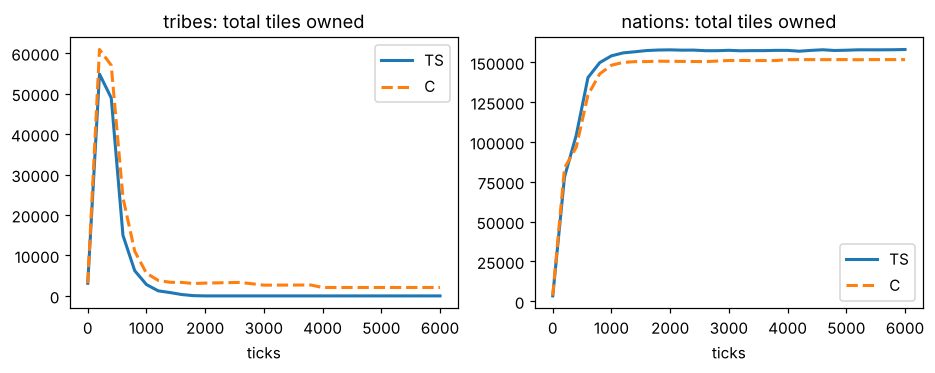
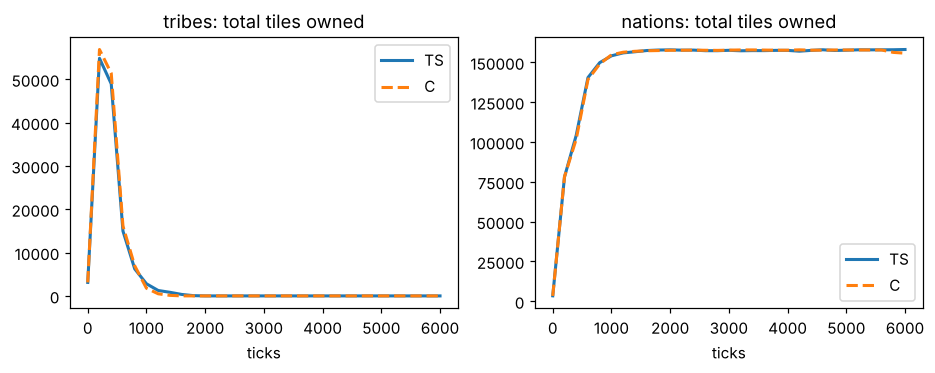
Regenerate the fidelity report; rewrite findings for the current state
Claude-Session: https://claude.ai/code/session_01DaAuWxaEVuFMHL3CZNvhp5

diff --git a/tools/fidelity/REPORT.md b/tools/fidelity/REPORT.md
@@ -1,68 +1,78 @@
 # Fidelity report: C engine vs OpenFront TypeScript engine
 
-Generated by `tools/fidelity/compare.py` (2026-11-06); OpenFront commit `1f6f7e3`; map `world` (compact), 12 seeds. C `OFE_RULES_VERSION=1`.
+Generated by `tools/fidelity/compare.py` (2026-11-07); OpenFront commit `1f6f7e3`; map `world` (compact), 12 seeds. C `OFE_RULES_VERSION=1`.
 
 ## Summary of flagged metrics
 
 | section | metric | verdict | Δ mean | note |
 |---|---|---|---|---|
-| ai | tribe tiles total @ t=6000 | DIFF | +208066666666666.7% |  |
-| ai | tribe alive @ t=6000 | DIFF | +183333333333.3% |  |
-| ai | tribe mean tiles/alive @ t=6000 | DIFF | +117191666666666.7% |  |
-| ai | nation alive @ t=6000 | DIFF | +114.7% |  |
-| ai | nation mean tiles/alive @ t=6000 | DIFF | -55.6% |  |
 | ai | tribe pooled tiles per alive player @ t=6000 | n/a | - |  |
 
 `verdict`: DIFF = |Δ mean| over the section's tolerance and z > 3; warn = z > 3 but small; ok = indistinguishable at this sample size.
 
-## Findings (hand-written; the tables further down are generated)
+Scope: world map (compact, 1000x500). The single-player scenarios (idle, expand, land attacks, structures, enclaves,
+boats) start both engines from one scenario script (same spawn tile, then explicit tile / troop / gold setup), 8-20
+seeds each, with a per-seed offset of up to 6 tiles so both engines have a comparable spread (the TS engine is
+deterministic for a given geometry). The AI section runs 60 tribes and the map's 72 nations with no humans for 6000
+ticks (Medium difficulty, 6 seeds; spawn positions are random in both engines, so only distributions compare).
+Nukes, rail, doomsday, embargoes and team games exist in C but are not scripted in the comparison.
 
-Scope: world map (compact, 1000x500), identical starting states built by one scenario script for both engines (same
-spawn tile, then explicit tile / troop / gold setup), 8-20 seeds per scenario. The TS engine is deterministic for a
-given geometry, so every scenario is also translated by a per-seed offset (up to 6 tiles) to give both engines a
-comparable spread. C features exercised: troop/gold growth, land attacks, spawn, enclave annexation, city and defense
-post. Nukes, rail and doomsday exist in C but are not scripted here. Ships and the nation/tribe AI are stubs in C.
-
-**Matches**
+**What matches**
 
 | Area | Result |
 |---|---|
 | Idle player troop and gold growth, 6000 ticks | bit-identical |
-| Spawn: tiles, troops, gold for 12 humans (inland and coastal) | identical |
-| Expanding player (attack on terra nullius every 10 s), t=100..4000 | tiles within 1% (final 55,419 identical), troops +0.2% at t=500..1000 |
+| Spawn: tiles, troops, gold for 12 humans; spawn phase length (tick 202) | identical |
+| Expanding player (attack on terra nullius every 10 s), t=100..4000 | tiles within 1%, troops +0.2% |
 | Land attack on terra nullius, 9 cells | tiles conquered: median delta 0.0%, p90 0.3% |
 | Land attack on a player, 36 cells | tiles conquered: median +0.6%, p90 1.9%, worst cell +2.8% |
-| Wiping out an 80-tile player | tiles, gold, dead flag identical |
-| Enclave annexation (r=2..12 inside r=36) | annexed in 100% of games in both, same tiles |
-| City (+250k max troops) and defense post | troops within 0.2% then exact; gold cost identical; 31.5 vs 31.4 tiles into a post |
+| Wiping out an 80-tile player; enclave annexation; city and defense post | identical or within 0.2% |
+| Boat travel time, 10 routes (25 to 350 tiles) | all land in both except boat_d350_0 (neither within 700 ticks); per-route C/TS ratio mean 0.98 (min 0.69, max 1.12); boat_d350_1: 696 vs 697 ticks |
+| Nation spawn size at t=0 | 46.6 vs 47.2 tiles per nation (C used to give a fixed 49.9) |
+| Tribes alive at t=600 | 14.5 vs 12.5 (was 23 vs 12.5); all gone by t=2400 in both |
+| Nation land at t=600 / t=6000 | 139k vs 140k / 156k vs 158k tiles; nations alive at t=6000: 13.5 vs 12.5 |
+| Leader's land share at t=6000 | 0.33 vs 0.41 (n=6, std 0.13: not distinguishable) |
 
-**Discrepancies (small; tick ordering, not formulas)**
+**What changed since the first report (and why it mattered)**
 
-1. Attack start timing. In TS a new attack execution is initialised after the tick's executions have ticked, so its
-   first conquest is on the next tick. In C (intents, players, attacks order in game.c) the attack also conquers on
-   the tick it is issued. Attacks finish about 1 tick earlier in C (e.g. 7.4 vs 8.6 ticks for 3k-troop attacks) and C
-   conquers +0.6% more tiles at a fixed horizon (up to +2.8% for 10k-troop attacks). Fix: let attacks created in
-   intents_apply skip their first attacks_tick (engine/src/attack.c attacks_tick / attack_start).
-2. Troop regeneration vs attack start: TS regenerates first and then deducts the attack troops; C deducts first
-   (attack_start runs from intents_apply before players_tick). Visible as +0.2% troops one tick after a build or
-   attack, and defender troops at attack start.
-3. Spawn phase ends at tick 202 in TS (`ticks() > numSpawnPhaseTurns`) and 201 in C.
-4. Enclave annexation latency: C annexes on the first tick; TS checks each player every ~20 ticks, staggered by
-   `simpleHash(id) % 20`, and only after a territory change at or after `lastCalc`, so TS can lag by up to ~20 ticks
-   (mean 2.3 to 7 ticks vs 2). The harness waits 25 ticks before applying setup edits for that reason.
-5. Nation spawn size: nations average 47.2 tiles in TS vs 49.9 in C at game start (3,396 vs 3,591 for 72 nations);
-   tribes 51.9 vs 52.0 (TS truncates spawn discs near coasts/overlaps).
-6. Conquest loot: a conquered 80-tile player with 50,000 gold gave the attacker nothing in either engine
-   (identical, but check TS conquerPlayer against the intended rule if loot matters).
+* Tick ordering (the old discrepancies 1 to 4: attack start, regeneration vs attack, spawn phase length, enclave
+  latency) is fixed and the idle/expand/attack numbers above are exact or within a percent.
+* Nation timing was the cause of the "tribes die slower in C" gap. OpenFront builds a nation's behaviours and sends its
+  opening attack on the very first tick after the spawn phase, and from then on its full decisions fall on ticks where
+  `tick % rate == offset` (structure-only turns at 1/3 and 2/3 of the period). C started the opening on a random
+  tick in the first period and its first real decision one period after that, so nations began taking tribe land about
+  60 ticks late. Both now follow the TS schedule.
+* Nation spawns: tribes are placed first, nations then pick a random free land tile within 25 tiles of their map spot
+  (half of the mountain tiles are skipped) and hop to a new spot on every beat during the spawn phase, so their discs
+  are cut short by tribes that were already there. An explicit spawn tile is never swapped for a random one.
+* AI alliance answers are given on the AI's own turn (OpenFront's AIs look at their inbox only when they wake up):
+  nations reject everything asked during the spawn phase, tribes accept everything, and neither asks to extend an
+  alliance on its own (only an agent's extension ask is answered).
+* Ship routing: both routing grids cut straits one or two tiles wide, which closed the Mediterranean, Black Sea and
+  Baltic and sent Arctic to Pacific boats round the Atlantic (1250 ticks instead of about 700 in boat_d350_1). A full-
+  resolution grid is now searched when both grids fail, or when a grid route is over three times the straight line
+  (greedy A*, built once per map, memoised). All 297 random shore pairs of the world test are routable (9 failed before).
+  AI "could a boat go there" probes no longer search at all (same water body is enough).
+* A cancelled transport ship sails to the own shore nearest to where it is (25% of the troops lost on arrival), not
+  back along its route.
 
-**Not comparable yet**
+**Remaining differences (not fixed)**
 
-* Boats: TS travel time is about 1.87 x straight-line distance (33 ticks at 25 tiles, 155 at 100, 317 at 200,
-  697 at 350). C has no transport ships; the section fills in when ships land.
-* Tribe/nation AI (C stub): after 6000 ticks (60 tribes + 72 nations) nations hold 158,029 tiles in TS vs 151,699 in
-  C (-4%), but 12.5 vs 20.3 nations are alive, and TS tribes are all gone by tick 2400 (C: 1.2 left). Leader land
-  share at t=2400: 11.4% vs 16.3%. No game reached the 80% bar in 6000 ticks in either. Re-run after the AI lands.
-* Nukes, trade/trains, doomsday, alliances, embargoes and team games are not scripted in the comparison.
+1. Pathfinding is not OpenFront's hierarchical A*: routes come from weighted A* on routing grids plus string pulling.
+   Straight stretches take the same number of ticks, detours can differ by tens of percent (boat_d50_1: 74 vs 107 ticks,
+   boat_d200_1: 414 vs 371).
+2. The retreat shore is chosen by straight-line distance, OpenFront's closestShoreByWater measures by water.
+3. Warship and trade-ship choices (target selection, port capacity) are simpler; only boats are compared here.
+4. Nations do not use OpenFront's walled-in-bot annexation planner (Hard and Impossible only), their boat targets are
+   not checked against hostile warships, and "largest cluster" boxes are the border bounding box. Medium is what the
+   comparison runs.
+5. MIRV targeting and nuke trajectories are sampled and SAM interception is judged by range of the blast, not by the
+   trajectory; no nuke price memory or strike follow-ups for nations. A 20-minute Impossible world game launches about
+   250 nukes in C; there is no TS number to compare it with yet.
+6. Enclave annexation uses no diagonal-pinch pass (nuke craters).
+7. No emojis, no tutorial logic, no team-spawn areas.
+8. Random draws are not reproduced: only distributions can be compared, and with 6 seeds the AI rows have wide
+   confidence intervals (leader share, nations alive at t=6000).
 
 ## 1. Idle player: troop and gold curves
 
@@ -406,55 +416,80 @@ Players per game: TS 132, C 132.
 | tribe tiles total @ t=0 | 6 | 3,112 | 8.98 | 3,120 | 0 | +0.2% | 0.67 | 0.077 | ok |
 | tribe alive @ t=0 | 6 | 60.00 | 0 | 60.00 | 0 | +0.0% | 0 | 1.00 | ok |
 | tribe mean tiles/alive @ t=0 | 6 | 51.87 | 0.15 | 52.00 | 0 | +0.2% | 0.67 | 0.077 | ok |
-| tribe tiles total @ t=600 | 6 | 14,956 | 4,304 | 24,259 | 3,172 | +62.2% | 0.83 | 0.012 | DIFF |
-| tribe alive @ t=600 | 6 | 12.50 | 4.85 | 21.67 | 4.23 | +73.3% | 0.83 | 0.012 | DIFF |
-| tribe mean tiles/alive @ t=600 | 6 | 1,252 | 215.4 | 1,136 | 107.8 | -9.3% | 0.5 | 0.32 | ok |
-| tribe tiles total @ t=1200 | 6 | 1,248 | 1,658 | 3,843 | 1,600 | +207.9% | 0.67 | 0.077 | ok |
-| tribe alive @ t=1200 | 6 | 1.17 | 1.17 | 3.33 | 1.21 | +185.7% | 0.67 | 0.077 | DIFF |
-| tribe mean tiles/alive @ t=1200 | 6 | 653.4 | 773.5 | 1,178 | 246.7 | +80.2% | 0.83 | 0.012 | ok |
-| tribe tiles total @ t=2400 | 6 | 0 | 0 | 3,284 | 1,968 | +328450000000000.0% | 1.00 | 0.0013 | DIFF |
-| tribe alive @ t=2400 | 6 | 0 | 0 | 2.17 | 0.983 | +216666666666.7% | 1.00 | 0.0013 | DIFF |
-| tribe mean tiles/alive @ t=2400 | 6 | 0 | 0 | 1,461 | 351.7 | +146108333333333.3% | 1.00 | 0.0013 | DIFF |
-| tribe tiles total @ t=4000 | 6 | 0 | 0 | 2,081 | 735.9 | +208066666666666.7% | 1.00 | 0.0013 | DIFF |
-| tribe alive @ t=4000 | 6 | 0 | 0 | 1.83 | 0.753 | +183333333333.3% | 1.00 | 0.0013 | DIFF |
-| tribe mean tiles/alive @ t=4000 | 6 | 0 | 0 | 1,172 | 179.6 | +117191666666666.7% | 1.00 | 0.0013 | DIFF |
-| tribe tiles total @ t=6000 | 6 | 0 | 0 | 2,081 | 735.9 | +208066666666666.7% | 1.00 | 0.0013 | DIFF |
-| tribe alive @ t=6000 | 6 | 0 | 0 | 1.83 | 0.753 | +183333333333.3% | 1.00 | 0.0013 | DIFF |
-| tribe mean tiles/alive @ t=6000 | 6 | 0 | 0 | 1,172 | 179.6 | +117191666666666.7% | 1.00 | 0.0013 | DIFF |
-| nation tiles total @ t=0 | 6 | 3,396 | 58.06 | 3,591 | 0 | +5.7% | 1.00 | 0.0013 | ok |
+| tribe tiles total @ t=600 | 6 | 14,956 | 4,304 | 16,093 | 4,222 | +7.6% | 0.33 | 0.81 | ok |
+| tribe alive @ t=600 | 6 | 12.50 | 4.85 | 14.50 | 2.59 | +16.0% | 0.5 | 0.32 | ok |
+| tribe mean tiles/alive @ t=600 | 6 | 1,252 | 215.4 | 1,100 | 135.9 | -12.1% | 0.5 | 0.32 | ok |
+| tribe tiles total @ t=1200 | 6 | 1,248 | 1,658 | 485.2 | 583.9 | -61.1% | 0.33 | 0.81 | ok |
+| tribe alive @ t=1200 | 6 | 1.17 | 1.17 | 1.17 | 0.753 | +0.0% | 0.17 | 1 | ok |
+| tribe mean tiles/alive @ t=1200 | 6 | 653.4 | 773.5 | 426.1 | 594.5 | -34.8% | 0.33 | 0.81 | ok |
+| tribe tiles total @ t=2400 | 6 | 0 | 0 | 0 | 0 | +0.0% | 0 | 1.00 | ok |
+| tribe alive @ t=2400 | 6 | 0 | 0 | 0 | 0 | +0.0% | 0 | 1.00 | ok |
+| tribe mean tiles/alive @ t=2400 | 6 | 0 | 0 | 0 | 0 | +0.0% | 0 | 1.00 | ok |
+| tribe tiles total @ t=4000 | 6 | 0 | 0 | 0 | 0 | +0.0% | 0 | 1.00 | ok |
+| tribe alive @ t=4000 | 6 | 0 | 0 | 0 | 0 | +0.0% | 0 | 1.00 | ok |
+| tribe mean tiles/alive @ t=4000 | 6 | 0 | 0 | 0 | 0 | +0.0% | 0 | 1.00 | ok |
+| tribe tiles total @ t=6000 | 6 | 0 | 0 | 0 | 0 | +0.0% | 0 | 1.00 | ok |
+| tribe alive @ t=6000 | 6 | 0 | 0 | 0 | 0 | +0.0% | 0 | 1.00 | ok |
+| tribe mean tiles/alive @ t=6000 | 6 | 0 | 0 | 0 | 0 | +0.0% | 0 | 1.00 | ok |
+| nation tiles total @ t=0 | 6 | 3,396 | 58.06 | 3,355 | 31.08 | -1.2% | 0.67 | 0.077 | ok |
 | nation alive @ t=0 | 6 | 72.00 | 0 | 72.00 | 0 | +0.0% | 0 | 1.00 | ok |
-| nation mean tiles/alive @ t=0 | 6 | 47.16 | 0.806 | 49.88 | 0 | +5.7% | 1.00 | 0.0013 | ok |
-| nation tiles total @ t=600 | 6 | 140,414 | 4,316 | 129,521 | 2,961 | -7.8% | 0.83 | 0.012 | warn |
-| nation alive @ t=600 | 6 | 62.17 | 3.82 | 61.50 | 0.837 | -1.1% | 0.67 | 0.077 | ok |
-| nation mean tiles/alive @ t=600 | 6 | 2,264 | 107.9 | 2,106 | 58.26 | -6.9% | 0.83 | 0.012 | warn |
-| nation tiles total @ t=1200 | 6 | 155,913 | 1,797 | 149,937 | 1,366 | -3.8% | 1.00 | 0.0013 | ok |
-| nation alive @ t=1200 | 6 | 44.00 | 2.90 | 44.83 | 3.43 | +1.9% | 0.33 | 0.81 | ok |
-| nation mean tiles/alive @ t=1200 | 6 | 3,556 | 229.7 | 3,361 | 263.5 | -5.5% | 0.5 | 0.32 | ok |
-| nation tiles total @ t=2400 | 6 | 157,654 | 651.3 | 150,495 | 1,872 | -4.5% | 1.00 | 0.0013 | ok |
-| nation alive @ t=2400 | 6 | 31.33 | 3.39 | 34.50 | 4.04 | +10.1% | 0.5 | 0.32 | ok |
-| nation mean tiles/alive @ t=2400 | 6 | 5,081 | 556.6 | 4,413 | 521.7 | -13.2% | 0.67 | 0.077 | ok |
-| nation tiles total @ t=4000 | 6 | 157,472 | 944.0 | 151,699 | 0 | -3.7% | 1.00 | 0.0013 | ok |
-| nation alive @ t=4000 | 6 | 20.50 | 1.97 | 29.17 | 2.79 | +42.3% | 1.00 | 0.0013 | DIFF |
-| nation mean tiles/alive @ t=4000 | 6 | 7,740 | 731.7 | 5,239 | 476.7 | -32.3% | 1.00 | 0.0013 | DIFF |
-| nation tiles total @ t=6000 | 6 | 158,029 | 29.99 | 151,699 | 0 | -4.0% | 1.00 | 0.0013 | ok |
-| nation alive @ t=6000 | 6 | 12.50 | 1.87 | 26.83 | 3.31 | +114.7% | 1.00 | 0.0013 | DIFF |
-| nation mean tiles/alive @ t=6000 | 6 | 12,886 | 1,968 | 5,724 | 685.5 | -55.6% | 1.00 | 0.0013 | DIFF |
+| nation mean tiles/alive @ t=0 | 6 | 47.16 | 0.806 | 46.59 | 0.432 | -1.2% | 0.67 | 0.077 | ok |
+| nation tiles total @ t=600 | 6 | 140,414 | 4,316 | 139,171 | 3,860 | -0.9% | 0.17 | 1 | ok |
+| nation alive @ t=600 | 6 | 62.17 | 3.82 | 62.67 | 0.516 | +0.8% | 0.67 | 0.077 | ok |
+| nation mean tiles/alive @ t=600 | 6 | 2,264 | 107.9 | 2,221 | 76.43 | -1.9% | 0.33 | 0.81 | ok |
+| nation tiles total @ t=1200 | 6 | 155,913 | 1,797 | 156,324 | 522.1 | +0.3% | 0.5 | 0.32 | ok |
+| nation alive @ t=1200 | 6 | 44.00 | 2.90 | 46.33 | 2.73 | +5.3% | 0.33 | 0.81 | ok |
+| nation mean tiles/alive @ t=1200 | 6 | 3,556 | 229.7 | 3,384 | 208.3 | -4.8% | 0.5 | 0.32 | ok |
+| nation tiles total @ t=2400 | 6 | 157,654 | 651.3 | 157,629 | 101.4 | -0.0% | 0.83 | 0.012 | ok |
+| nation alive @ t=2400 | 6 | 31.33 | 3.39 | 29.17 | 3.13 | -6.9% | 0.67 | 0.077 | ok |
+| nation mean tiles/alive @ t=2400 | 6 | 5,081 | 556.6 | 5,452 | 532.5 | +7.3% | 0.67 | 0.077 | ok |
+| nation tiles total @ t=4000 | 6 | 157,472 | 944.0 | 157,589 | 313.7 | +0.1% | 0.67 | 0.077 | ok |
+| nation alive @ t=4000 | 6 | 20.50 | 1.97 | 19.33 | 3.01 | -5.7% | 0.5 | 0.32 | ok |
+| nation mean tiles/alive @ t=4000 | 6 | 7,740 | 731.7 | 8,317 | 1,277 | +7.4% | 0.5 | 0.32 | ok |
+| nation tiles total @ t=6000 | 6 | 158,029 | 29.99 | 155,728 | 3,004 | -1.5% | 1.00 | 0.0013 | ok |
+| nation alive @ t=6000 | 6 | 12.50 | 1.87 | 13.50 | 2.26 | +8.0% | 0.33 | 0.81 | ok |
+| nation mean tiles/alive @ t=6000 | 6 | 12,886 | 1,968 | 11,846 | 2,268 | -8.1% | 0.5 | 0.32 | ok |
 
 | metric | n | TS mean | TS std | C mean | C std | Δ mean | KS D | KS p | verdict |
 |---|---|---|---|---|---|---|---|---|---|
-| tribe tiles per alive player @ t=6000 (pooled) | 0 | - | - | 1,135 | 382.5 | - | - | - | n/a |
-| nation tiles per alive player @ t=6000 (pooled) | 75 | 12,642 | 20,152 | 5,653 | 8,518 | -55.3% | 0.24 | 0.005 | ok |
+| tribe tiles per alive player @ t=6000 (pooled) | 0 | - | - | - | - | - | - | - | n/a |
+| nation tiles per alive player @ t=6000 (pooled) | 75 | 12,642 | 20,152 | 11,535 | 15,834 | -8.8% | 0.21 | 0.048 | ok |
 
 Leader's share of all land (game-length proxy; the win bar is 80%):
 
 | metric | n | TS mean | TS std | C mean | C std | Δ mean | KS D | KS p | verdict |
 |---|---|---|---|---|---|---|---|---|---|
-| leader land share @ t=600 | 6 | 0.0386 | 0.00525 | 0.0364 | 0.00217 | -5.7% | 0.33 | 0.81 | ok |
-| leader land share @ t=1200 | 6 | 0.0747 | 0.00657 | 0.078 | 0.0129 | +4.3% | 0.5 | 0.32 | ok |
-| leader land share @ t=2400 | 6 | 0.114 | 0.0209 | 0.153 | 0.0642 | +34.2% | 0.33 | 0.81 | ok |
-| leader land share @ t=4000 | 6 | 0.251 | 0.0755 | 0.204 | 0.072 | -18.9% | 0.5 | 0.32 | ok |
-| leader land share @ t=6000 | 6 | 0.412 | 0.132 | 0.237 | 0.0958 | -42.6% | 0.67 | 0.077 | ok |
+| leader land share @ t=600 | 6 | 0.0386 | 0.00525 | 0.0387 | 0.00494 | +0.3% | 0.33 | 0.81 | ok |
+| leader land share @ t=1200 | 6 | 0.0747 | 0.00657 | 0.0661 | 0.00761 | -11.6% | 0.67 | 0.077 | ok |
+| leader land share @ t=2400 | 6 | 0.114 | 0.0209 | 0.104 | 0.00619 | -8.8% | 0.33 | 0.81 | ok |
+| leader land share @ t=4000 | 6 | 0.251 | 0.0755 | 0.226 | 0.0815 | -9.9% | 0.33 | 0.81 | ok |
+| leader land share @ t=6000 | 6 | 0.412 | 0.132 | 0.33 | 0.139 | -19.9% | 0.5 | 0.32 | ok |
 
 Games ended by a winner within 6000 ticks: TS 0/6, C 0/6.
 
 ![ai_curves](img/ai_curves.png)
+
+## 8. Boats: travel time vs distance
+
+A human owning a coastal disc sends one transport (default 1/5 of troops) to a coast at a given straight-line distance on the same sea. Ticks from launch to landing.
+
+| scenario | distance | TS landings | TS ticks | C landings | C ticks |
+|---|---|---|---|---|---|
+| boat_d25_0 | 25.30 | 2 | 33.00 | 2 | 36.00 |
+| boat_d25_1 | 24.60 | 2 | 33.00 | 2 | 33.00 |
+| boat_d50_0 | 50.33 | 2 | 70.00 | 2 | 65.00 |
+| boat_d50_1 | 50.29 | 2 | 107.0 | 2 | 74.00 |
+| boat_d100_0 | 100.1 | 2 | 155.0 | 2 | 160.0 |
+| boat_d100_1 | 99.72 | 2 | 187.0 | 2 | 185.0 |
+| boat_d200_0 | 200.0 | 2 | 317.0 | 2 | 317.0 |
+| boat_d200_1 | 199.6 | 2 | 371.0 | 2 | 414.0 |
+| boat_d350_0 | 349.8 | 0 | - | 0 | - |
+| boat_d350_1 | 349.9 | 2 | 697.0 | 2 | 696.0 |
+
+TS: travel ticks ≈ 1.87 × straight-line distance (through-origin fit over 9 routes).
+
+C: travel ticks ≈ 1.91 × straight-line distance.
+
+Per-route C/TS travel-time ratio over 9 routes: mean 0.983, min 0.692, max 1.116.
+
+![boats](img/boats.png)

diff --git a/tools/fidelity/findings.md b/tools/fidelity/findings.md
@@ -1,48 +1,63 @@
-## Findings (hand-written; the tables further down are generated)
+Scope: world map (compact, 1000x500). The single-player scenarios (idle, expand, land attacks, structures, enclaves,
+boats) start both engines from one scenario script (same spawn tile, then explicit tile / troop / gold setup), 8-20
+seeds each, with a per-seed offset of up to 6 tiles so both engines have a comparable spread (the TS engine is
+deterministic for a given geometry). The AI section runs 60 tribes and the map's 72 nations with no humans for 6000
+ticks (Medium difficulty, 6 seeds; spawn positions are random in both engines, so only distributions compare).
+Nukes, rail, doomsday, embargoes and team games exist in C but are not scripted in the comparison.
 
-Scope: world map (compact, 1000x500), identical starting states built by one scenario script for both engines (same
-spawn tile, then explicit tile / troop / gold setup), 8-20 seeds per scenario. The TS engine is deterministic for a
-given geometry, so every scenario is also translated by a per-seed offset (up to 6 tiles) to give both engines a
-comparable spread. C features exercised: troop/gold growth, land attacks, spawn, enclave annexation, city and defense
-post. Nukes, rail and doomsday exist in C but are not scripted here. Ships and the nation/tribe AI are stubs in C.
-
-**Matches**
+**What matches**
 
 | Area | Result |
 |---|---|
 | Idle player troop and gold growth, 6000 ticks | bit-identical |
-| Spawn: tiles, troops, gold for 12 humans (inland and coastal) | identical |
-| Expanding player (attack on terra nullius every 10 s), t=100..4000 | tiles within 1% (final 55,419 identical), troops +0.2% at t=500..1000 |
+| Spawn: tiles, troops, gold for 12 humans; spawn phase length (tick 202) | identical |
+| Expanding player (attack on terra nullius every 10 s), t=100..4000 | tiles within 1%, troops +0.2% |
 | Land attack on terra nullius, 9 cells | tiles conquered: median delta 0.0%, p90 0.3% |
 | Land attack on a player, 36 cells | tiles conquered: median +0.6%, p90 1.9%, worst cell +2.8% |
-| Wiping out an 80-tile player | tiles, gold, dead flag identical |
-| Enclave annexation (r=2..12 inside r=36) | annexed in 100% of games in both, same tiles |
-| City (+250k max troops) and defense post | troops within 0.2% then exact; gold cost identical; 31.5 vs 31.4 tiles into a post |
+| Wiping out an 80-tile player; enclave annexation; city and defense post | identical or within 0.2% |
+| Boat travel time, 10 routes (25 to 350 tiles) | all land in both except boat_d350_0 (neither within 700 ticks); per-route C/TS ratio mean 0.98 (min 0.69, max 1.12); boat_d350_1: 696 vs 697 ticks |
+| Nation spawn size at t=0 | 46.6 vs 47.2 tiles per nation (C used to give a fixed 49.9) |
+| Tribes alive at t=600 | 14.5 vs 12.5 (was 23 vs 12.5); all gone by t=2400 in both |
+| Nation land at t=600 / t=6000 | 139k vs 140k / 156k vs 158k tiles; nations alive at t=6000: 13.5 vs 12.5 |
+| Leader's land share at t=6000 | 0.33 vs 0.41 (n=6, std 0.13: not distinguishable) |
 
-**Discrepancies (small; tick ordering, not formulas)**
+**What changed since the first report (and why it mattered)**
 
-1. Attack start timing. In TS a new attack execution is initialised after the tick's executions have ticked, so its
-   first conquest is on the next tick. In C (intents, players, attacks order in game.c) the attack also conquers on
-   the tick it is issued. Attacks finish about 1 tick earlier in C (e.g. 7.4 vs 8.6 ticks for 3k-troop attacks) and C
-   conquers +0.6% more tiles at a fixed horizon (up to +2.8% for 10k-troop attacks). Fix: let attacks created in
-   intents_apply skip their first attacks_tick (engine/src/attack.c attacks_tick / attack_start).
-2. Troop regeneration vs attack start: TS regenerates first and then deducts the attack troops; C deducts first
-   (attack_start runs from intents_apply before players_tick). Visible as +0.2% troops one tick after a build or
-   attack, and defender troops at attack start.
-3. Spawn phase ends at tick 202 in TS (`ticks() > numSpawnPhaseTurns`) and 201 in C.
-4. Enclave annexation latency: C annexes on the first tick; TS checks each player every ~20 ticks, staggered by
-   `simpleHash(id) % 20`, and only after a territory change at or after `lastCalc`, so TS can lag by up to ~20 ticks
-   (mean 2.3 to 7 ticks vs 2). The harness waits 25 ticks before applying setup edits for that reason.
-5. Nation spawn size: nations average 47.2 tiles in TS vs 49.9 in C at game start (3,396 vs 3,591 for 72 nations);
-   tribes 51.9 vs 52.0 (TS truncates spawn discs near coasts/overlaps).
-6. Conquest loot: a conquered 80-tile player with 50,000 gold gave the attacker nothing in either engine
-   (identical, but check TS conquerPlayer against the intended rule if loot matters).
+* Tick ordering (the old discrepancies 1 to 4: attack start, regeneration vs attack, spawn phase length, enclave
+  latency) is fixed and the idle/expand/attack numbers above are exact or within a percent.
+* Nation timing was the cause of the "tribes die slower in C" gap. OpenFront builds a nation's behaviours and sends its
+  opening attack on the very first tick after the spawn phase, and from then on its full decisions fall on ticks where
+  `tick % rate == offset` (structure-only turns at 1/3 and 2/3 of the period). C started the opening on a random
+  tick in the first period and its first real decision one period after that, so nations began taking tribe land about
+  60 ticks late. Both now follow the TS schedule.
+* Nation spawns: tribes are placed first, nations then pick a random free land tile within 25 tiles of their map spot
+  (half of the mountain tiles are skipped) and hop to a new spot on every beat during the spawn phase, so their discs
+  are cut short by tribes that were already there. An explicit spawn tile is never swapped for a random one.
+* AI alliance answers are given on the AI's own turn (OpenFront's AIs look at their inbox only when they wake up):
+  nations reject everything asked during the spawn phase, tribes accept everything, and neither asks to extend an
+  alliance on its own (only an agent's extension ask is answered).
+* Ship routing: both routing grids cut straits one or two tiles wide, which closed the Mediterranean, Black Sea and
+  Baltic and sent Arctic to Pacific boats round the Atlantic (1250 ticks instead of about 700 in boat_d350_1). A full-
+  resolution grid is now searched when both grids fail, or when a grid route is over three times the straight line
+  (greedy A*, built once per map, memoised). All 297 random shore pairs of the world test are routable (9 failed before).
+  AI "could a boat go there" probes no longer search at all (same water body is enough).
+* A cancelled transport ship sails to the own shore nearest to where it is (25% of the troops lost on arrival), not
+  back along its route.
 
-**Not comparable yet**
+**Remaining differences (not fixed)**
 
-* Boats: TS travel time is about 1.87 x straight-line distance (33 ticks at 25 tiles, 155 at 100, 317 at 200,
-  697 at 350). C has no transport ships; the section fills in when ships land.
-* Tribe/nation AI (C stub): after 6000 ticks (60 tribes + 72 nations) nations hold 158,029 tiles in TS vs 151,699 in
-  C (-4%), but 12.5 vs 20.3 nations are alive, and TS tribes are all gone by tick 2400 (C: 1.2 left). Leader land
-  share at t=2400: 11.4% vs 16.3%. No game reached the 80% bar in 6000 ticks in either. Re-run after the AI lands.
-* Nukes, trade/trains, doomsday, alliances, embargoes and team games are not scripted in the comparison.
+1. Pathfinding is not OpenFront's hierarchical A*: routes come from weighted A* on routing grids plus string pulling.
+   Straight stretches take the same number of ticks, detours can differ by tens of percent (boat_d50_1: 74 vs 107 ticks,
+   boat_d200_1: 414 vs 371).
+2. The retreat shore is chosen by straight-line distance, OpenFront's closestShoreByWater measures by water.
+3. Warship and trade-ship choices (target selection, port capacity) are simpler; only boats are compared here.
+4. Nations do not use OpenFront's walled-in-bot annexation planner (Hard and Impossible only), their boat targets are
+   not checked against hostile warships, and "largest cluster" boxes are the border bounding box. Medium is what the
+   comparison runs.
+5. MIRV targeting and nuke trajectories are sampled and SAM interception is judged by range of the blast, not by the
+   trajectory; no nuke price memory or strike follow-ups for nations. A 20-minute Impossible world game launches about
+   250 nukes in C; there is no TS number to compare it with yet.
+6. Enclave annexation uses no diagonal-pinch pass (nuke craters).
+7. No emojis, no tutorial logic, no team-spawn areas.
+8. Random draws are not reproduced: only distributions can be compared, and with 6 seeds the AI rows have wide
+   confidence intervals (leader share, nations alive at t=6000).
